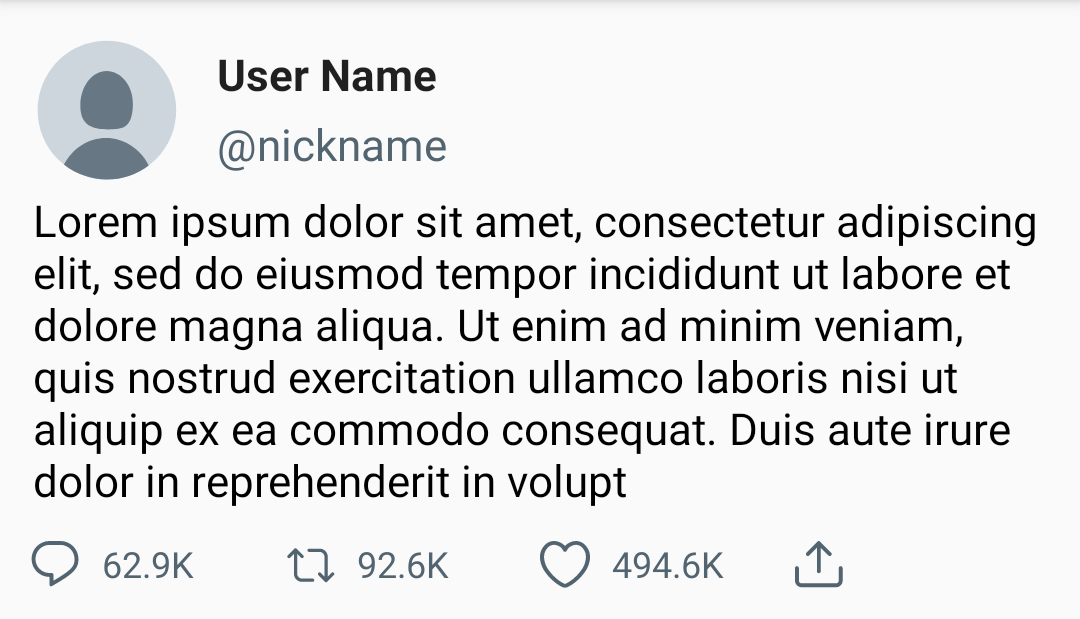
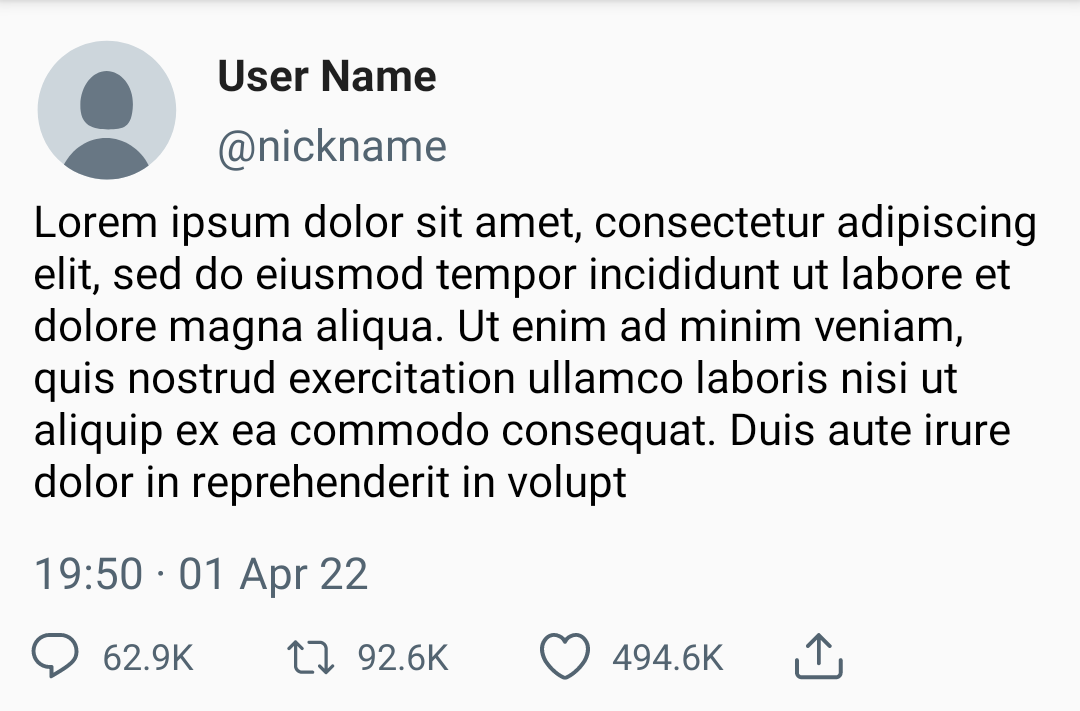
[Update] Posted time as Instant so that it can be shown in short format (timeline) and long format (tweet details)

diff --git a/feature-timeline/src/main/java/com/rumosoft/feature_timeline/data/repository/TweetsRepositoryImpl.kt b/feature-timeline/src/main/java/com/rumosoft/feature_timeline/data/repository/TweetsRepositoryImpl.kt
@@ -8,6 +8,9 @@ import com.rumosoft.feature_timeline.domain.repo_interfaces.TweetsRepository
 import com.rumosoft.feature_timeline.infrastructure.di.IoDispatcher
 import kotlinx.coroutines.CoroutineDispatcher
 import kotlinx.coroutines.withContext
+import java.time.Instant
+import java.time.LocalDateTime
+import java.time.ZoneOffset
 import javax.inject.Inject
 
 class TweetsRepositoryImpl @Inject constructor(
@@ -37,7 +40,7 @@ class TweetsRepositoryImpl @Inject constructor(
             numComments = 62900,
             numRetweets = 92600,
             numLikes = 494600,
-            elapsedTime = "30 Mar",
+            posted = dateTimeToInstant("2021-04-01", "17:50"),
             verified = true,
         ),
         Tweet(
@@ -52,7 +55,7 @@ class TweetsRepositoryImpl @Inject constructor(
             numComments = 2,
             numRetweets = 4,
             numLikes = 33,
-            elapsedTime = "1 Jun",
+            posted = dateTimeToInstant("2021-06-01", "21:09"),
             verified = true,
         ),
         Tweet(
@@ -66,7 +69,7 @@ class TweetsRepositoryImpl @Inject constructor(
             numComments = 10,
             numRetweets = 70,
             numLikes = 733,
-            elapsedTime = "3 Jun",
+            posted = dateTimeToInstant("2021-06-02", "22:51"),
             verified = false,
             images = listOf(
                 TweetImage(
@@ -91,7 +94,7 @@ class TweetsRepositoryImpl @Inject constructor(
             numComments = 32,
             numRetweets = 363,
             numLikes = 3265,
-            elapsedTime = "30 Apr",
+            posted = dateTimeToInstant("2021-04-30", "12:51"),
             verified = false,
             images = listOf(
                 TweetImage(
@@ -114,7 +117,7 @@ class TweetsRepositoryImpl @Inject constructor(
             numComments = 9,
             numRetweets = 14,
             numLikes = 87,
-            elapsedTime = "6 Jun",
+            posted = dateTimeToInstant("2021-06-06", "10:43"),
             verified = false,
             images = listOf(
                 TweetImage(
@@ -140,7 +143,7 @@ class TweetsRepositoryImpl @Inject constructor(
             numComments = 0,
             numRetweets = 0,
             numLikes = 20,
-            elapsedTime = "26 May",
+            posted = dateTimeToInstant("2021-05-26", "19:16"),
             verified = false,
             images = listOf(
                 TweetImage(
@@ -170,7 +173,7 @@ class TweetsRepositoryImpl @Inject constructor(
             numComments = 0,
             numRetweets = 1,
             numLikes = 2,
-            elapsedTime = "5 Jun",
+            posted = dateTimeToInstant("2021-06-05", "11:20"),
             verified = false,
             images = listOf(
                 TweetImage(
@@ -189,7 +192,7 @@ class TweetsRepositoryImpl @Inject constructor(
             numComments = 1,
             numRetweets = 2,
             numLikes = 1,
-            elapsedTime = "5 Jun",
+            posted = dateTimeToInstant("2021-06-05", "15:20"),
             verified = false,
             images = listOf(
                 TweetImage(
@@ -201,4 +204,10 @@ class TweetsRepositoryImpl @Inject constructor(
             )
         ),
     )
+
+    private fun dateTimeToInstant(strDate: String, strTime: String): Instant {
+        val strDateTime = strDate + "T" + strTime
+        val ldt: LocalDateTime = LocalDateTime.parse(strDateTime)
+        return ldt.atOffset(ZoneOffset.UTC).toInstant()
+    }
 }

diff --git a/feature-timeline/src/main/java/com/rumosoft/feature_timeline/presentation/screen/model/Tweet.kt b/feature-timeline/src/main/java/com/rumosoft/feature_timeline/presentation/screen/model/Tweet.kt
@@ -4,11 +4,16 @@ import com.rumosoft.feature_timeline.domain.entity.ImageType
 import com.rumosoft.feature_timeline.domain.entity.Tweet
 import com.rumosoft.feature_timeline.domain.entity.TweetImage
 import com.rumosoft.feature_timeline.infrastructure.extensions.formatDuration
+import com.rumosoft.feature_timeline.presentation.screen.model.TweetUI.Companion.longFormatter
+import com.rumosoft.feature_timeline.presentation.screen.model.TweetUI.Companion.shortFormatter
 import com.rumosoft.library_components.components.model.ImageTypeUI
 import com.rumosoft.library_components.components.model.ImageUI
+import java.time.Instant
+import java.time.LocalDateTime
+import java.time.ZoneId
+import java.time.format.DateTimeFormatter
 import kotlin.math.ln
 import kotlin.math.pow
-import kotlin.time.Duration
 import kotlin.time.Duration.Companion.parseIsoStringOrNull
 
 
@@ -21,10 +26,16 @@ data class TweetUI(
     val numComments: String,
     val numRetweets: String,
     val numLikes: String,
-    val elapsedTime: String,
+    val shortElapsedTime: String,
+    val longElapsedTime: String,
     val verified: Boolean,
     val images: List<ImageUI>,
-)
+) {
+    companion object {
+        val shortFormatter: DateTimeFormatter = DateTimeFormatter.ofPattern("dd MMM")
+        val longFormatter: DateTimeFormatter = DateTimeFormatter.ofPattern("HH:mm · dd MMM yy")
+    }
+}
 
 fun Tweet.toTweetUI(): TweetUI {
     fun getFormattedNumber(count: Long): String {
@@ -43,11 +54,17 @@ fun Tweet.toTweetUI(): TweetUI {
         numComments = getFormattedNumber(numComments),
         numRetweets = getFormattedNumber(numRetweets),
         numLikes = getFormattedNumber(numLikes),
-        elapsedTime = elapsedTime,
+        shortElapsedTime = posted.formatToLocalDate(shortFormatter),
+        longElapsedTime = posted.formatToLocalDate(longFormatter),
         verified = verified,
         images = images.map { it.toImageUI() },
     )
 }
+
+fun Instant.formatToLocalDate(longFormatter: DateTimeFormatter?): String =
+    LocalDateTime
+        .ofInstant(this, ZoneId.systemDefault())
+        .format(longFormatter)
 
 fun TweetImage.toImageUI(): ImageUI {
     return ImageUI(

diff --git a/library-components/src/main/java/com/rumosoft/library_components/components/TweetTimeline.kt b/library-components/src/main/java/com/rumosoft/library_components/components/TweetTimeline.kt
@@ -5,7 +5,6 @@ import androidx.compose.foundation.layout.Column
 import androidx.compose.foundation.layout.Row
 import androidx.compose.foundation.layout.fillMaxWidth
 import androidx.compose.foundation.layout.padding
-import androidx.compose.material.Text
 import androidx.compose.runtime.Composable
 import androidx.compose.runtime.remember
 import androidx.compose.ui.Alignment
@@ -64,11 +63,7 @@ fun TweetTimeline(
                     showTick = verified,
                     modifier = Modifier.padding(start = TwitterMirroringTheme.paddings.medium)
                 )
-                Text(
-                    text = "@$nickname · $elapsedTime",
-                    color = TwitterMirroringTheme.colors.onBackground,
-                    style = TwitterMirroringTheme.typography.body1
-                )
+                TweetStackedHeader(message = "@$nickname · $elapsedTime")
             }
             TweetContent(
                 tweetId = tweetId,
@@ -117,7 +112,7 @@ fun TweetTimelineUnverifiedUserPreview() {
             numComments = sampleTweet.numComments,
             numRetweets = sampleTweet.numRetweets,
             numLikes = sampleTweet.numLikes,
-            elapsedTime = sampleTweet.elapsedTime,
+            elapsedTime = sampleTweet.shortElapsedTime,
         )
     }
 }
@@ -136,7 +131,7 @@ fun TweetTimelineVerifiedUserPreview() {
             username = sampleTweet.username,
             nickname = sampleTweet.nickname,
             message = sampleTweet.message,
-            elapsedTime = sampleTweet.elapsedTime,
+            elapsedTime = sampleTweet.shortElapsedTime,
             numComments = sampleTweet.numComments,
             numRetweets = sampleTweet.numRetweets,
             numLikes = sampleTweet.numLikes,

diff --git a/library-components/src/main/java/com/rumosoft/library_components/components/TweetFullWidth.kt b/library-components/src/main/java/com/rumosoft/library_components/components/TweetFullWidth.kt
@@ -89,6 +89,13 @@ fun TweetFullWidth(
                 onPictureSelected(tweetId, imageId)
             },
         )
+        TweetStackedHeader(
+            message = elapsedTime,
+            modifier = Modifier.padding(
+                top = TwitterMirroringTheme.paddings.medium,
+                start = TwitterMirroringTheme.paddings.medium
+            )
+        )
         TweetActionButtons(
             numComments = numComments,
             numRetweets = numRetweets,
@@ -116,7 +123,7 @@ fun TweetFullWidthUnverifiedUserPreview() {
             numComments = sampleTweet.numComments,
             numRetweets = sampleTweet.numRetweets,
             numLikes = sampleTweet.numLikes,
-            elapsedTime = sampleTweet.elapsedTime,
+            elapsedTime = sampleTweet.shortElapsedTime,
         )
     }
 }
@@ -135,7 +142,7 @@ fun TweetFullWidthVerifiedUserPreview() {
             username = sampleTweet.username,
             nickname = sampleTweet.nickname,
             message = sampleTweet.message,
-            elapsedTime = sampleTweet.elapsedTime,
+            elapsedTime = sampleTweet.shortElapsedTime,
             numComments = sampleTweet.numComments,
             numRetweets = sampleTweet.numRetweets,
             numLikes = sampleTweet.numLikes,

diff --git a/feature-timeline/src/androidTest/java/com/rumosoft/feature_timeline/sampledata/SampleScreenTweetData.kt b/feature-timeline/src/androidTest/java/com/rumosoft/feature_timeline/sampledata/SampleScreenTweetData.kt
@@ -1,10 +1,14 @@
 package com.rumosoft.feature_timeline.sampledata
 
 import com.rumosoft.feature_timeline.presentation.screen.model.TweetUI
+import com.rumosoft.feature_timeline.presentation.screen.model.TweetUI.Companion.longFormatter
+import com.rumosoft.feature_timeline.presentation.screen.model.formatToLocalDate
+import java.time.Instant
 
 object SampleScreenTweetData {
     fun sampleScreenTweet(): TweetUI =
         TweetUI(
+            id = 1,
             profileImageUrl = "",
             username = "User Name",
             nickname = "nickname",
@@ -12,7 +16,8 @@ object SampleScreenTweetData {
             numComments = "62.9K",
             numRetweets = "92.6K",
             numLikes = "494.6K",
-            elapsedTime = "3h",
+            shortElapsedTime = "3h",
+            longElapsedTime = Instant.now().minusSeconds(3 * 3600L).formatToLocalDate(longFormatter),
             verified = true,
             images = emptyList(),
         )

diff --git a/library-components/src/androidTest/java/com/rumosoft/library_components/components/TweetFullWidthTest.kt b/library-components/src/androidTest/java/com/rumosoft/library_components/components/TweetFullWidthTest.kt
@@ -26,7 +26,7 @@ internal class TweetFullWidthTest : ScreenshotTest {
                     numComments = sampleTweet.numComments,
                     numRetweets = sampleTweet.numRetweets,
                     numLikes = sampleTweet.numLikes,
-                    elapsedTime = sampleTweet.elapsedTime,
+                    elapsedTime = sampleTweet.longElapsedTime,
                 )
             }
         }
@@ -48,7 +48,7 @@ internal class TweetFullWidthTest : ScreenshotTest {
                     numComments = sampleTweet.numComments,
                     numRetweets = sampleTweet.numRetweets,
                     numLikes = sampleTweet.numLikes,
-                    elapsedTime = sampleTweet.elapsedTime,
+                    elapsedTime = sampleTweet.longElapsedTime,
                     verified = true,
                 )
             }

diff --git a/library-components/src/androidTest/java/com/rumosoft/library_components/components/TweetTimelineTest.kt b/library-components/src/androidTest/java/com/rumosoft/library_components/components/TweetTimelineTest.kt
@@ -26,7 +26,7 @@ internal class TweetTimelineTest : ScreenshotTest {
                     numComments = sampleTweet.numComments,
                     numRetweets = sampleTweet.numRetweets,
                     numLikes = sampleTweet.numLikes,
-                    elapsedTime = sampleTweet.elapsedTime,
+                    elapsedTime = sampleTweet.shortElapsedTime,
                 )
             }
         }
@@ -48,7 +48,7 @@ internal class TweetTimelineTest : ScreenshotTest {
                     numComments = sampleTweet.numComments,
                     numRetweets = sampleTweet.numRetweets,
                     numLikes = sampleTweet.numLikes,
-                    elapsedTime = sampleTweet.elapsedTime,
+                    elapsedTime = sampleTweet.shortElapsedTime,
                     verified = true,
                 )
             }

diff --git a/library-components/src/main/java/com/rumosoft/library_components/components/TweetStackedHeader.kt b/library-components/src/main/java/com/rumosoft/library_components/components/TweetStackedHeader.kt
@@ -1,0 +1,19 @@
+package com.rumosoft.library_components.components
+
+import androidx.compose.material.Text
+import androidx.compose.runtime.Composable
+import androidx.compose.ui.Modifier
+import com.rumosoft.library_components.presentation.theme.TwitterMirroringTheme
+
+@Composable
+fun TweetStackedHeader(
+    message: String,
+    modifier: Modifier = Modifier,
+) {
+    Text(
+        text = message,
+        color = TwitterMirroringTheme.colors.onBackground,
+        style = TwitterMirroringTheme.typography.body1,
+        modifier = modifier,
+    )
+}

diff --git a/feature-timeline/src/main/java/com/rumosoft/feature_timeline/presentation/screen/state/TimelineScreenBuildUI.kt b/feature-timeline/src/main/java/com/rumosoft/feature_timeline/presentation/screen/state/TimelineScreenBuildUI.kt
@@ -71,7 +71,7 @@ private fun TimelineReady(
                 username = tweet.username,
                 nickname = tweet.nickname,
                 message = tweet.message,
-                elapsedTime = tweet.elapsedTime,
+                elapsedTime = tweet.shortElapsedTime,
                 numComments = tweet.numComments,
                 numRetweets = tweet.numRetweets,
                 numLikes = tweet.numLikes,

diff --git a/feature-timeline/src/main/java/com/rumosoft/feature_timeline/presentation/screen/state/DetailsScreenBuildUI.kt b/feature-timeline/src/main/java/com/rumosoft/feature_timeline/presentation/screen/state/DetailsScreenBuildUI.kt
@@ -63,7 +63,7 @@ private fun DetailsReady(
                 username = tweet.username,
                 nickname = tweet.nickname,
                 message = tweet.message,
-                elapsedTime = tweet.elapsedTime,
+                elapsedTime = tweet.longElapsedTime,
                 numComments = tweet.numComments,
                 numRetweets = tweet.numRetweets,
                 numLikes = tweet.numLikes,

diff --git a/feature-timeline/src/main/java/com/rumosoft/feature_timeline/domain/entity/Tweet.kt b/feature-timeline/src/main/java/com/rumosoft/feature_timeline/domain/entity/Tweet.kt
@@ -1,5 +1,7 @@
 package com.rumosoft.feature_timeline.domain.entity
 
+import java.time.Instant
+
 data class Tweet(
     val id: Long,
     val username: String,
@@ -9,7 +11,7 @@ data class Tweet(
     val numComments: Long,
     val numRetweets: Long,
     val numLikes: Long,
-    val elapsedTime: String,
+    val posted: Instant,
     val verified: Boolean,
     val images: List<TweetImage> = emptyList(),
 )

diff --git a/library-components/src/main/java/com/rumosoft/library_components/components/sampledata/SampleTweetData.kt b/library-components/src/main/java/com/rumosoft/library_components/components/sampledata/SampleTweetData.kt
@@ -12,7 +12,8 @@ object SampleTweetData {
             numComments = "62.9K",
             numRetweets = "92.6K",
             numLikes = "494.6K",
-            elapsedTime = "3h",
+            shortElapsedTime = "3h",
+            longElapsedTime = "19:50 · 01 Apr 22",
             images = emptyList(),
         )
 }
